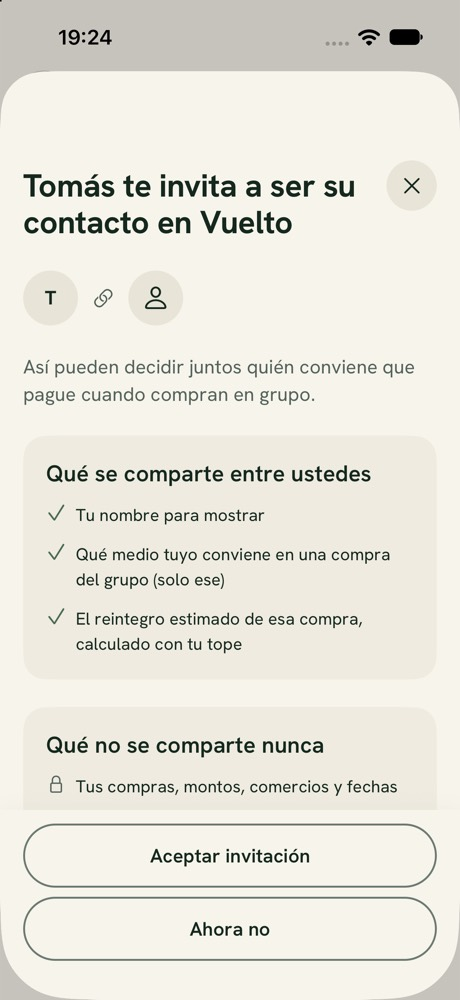
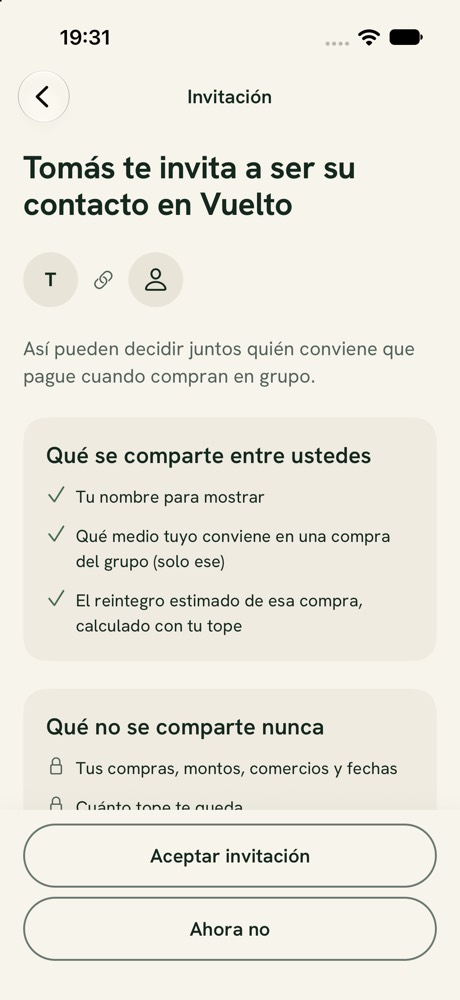
App mobile: ajustes de /code-review (spec), capturas del simulador y bitácora (#39)
- Comercios frecuentes y medios de Revisá tu compra salen de lo elegido en
  el onboarding (FR-002).
- Aceptar invitación es una pantalla apilada con header nativo (FR-004).
- Sin @react-native-segmented-control (los filtros son chips).
- Spec 006 alineada con lo que hace la app y con el contrato real.
- Capturas del iOS Simulator en docs/design/capturas-app/.

diff --git a/apps/mobile/src/data/api.ts b/apps/mobile/src/data/api.ts
@@ -77,12 +77,27 @@ export function getHoy(): string {
   return HOY;
 }
 
+/**
+ * Lo que el usuario eligió en el onboarding (en el servidor vive en su perfil, con RLS).
+ * Lo actualiza `perfil-local.ts`; sin elección, se usan los de ejemplo.
+ */
+let preferencias: { medios: string[]; comercios: string[] } = { medios: [], comercios: [] };
+export function setPreferencias(p: { medios: string[]; comercios: string[] }): void {
+  preferencias = p;
+}
+
+function mediosDelUsuario(): MedioDePago[] {
+  const elegidos = catalogoMedios.filter((m) => preferencias.medios.includes(m.id));
+  return elegidos.length > 0 ? elegidos : mediosDeclarados;
+}
+
+function comerciosDelUsuario(): Comercio[] {
+  const elegidos = catalogoComercios.filter((c) => preferencias.comercios.includes(c.id));
+  return elegidos.length > 0 ? elegidos : catalogoComercios.filter((c) => c.frecuente);
+}
+
 export async function getPerfil(): Promise<Perfil> {
-  return red({
-    nombre: usuario.nombre,
-    medios: mediosDeclarados,
-    comercios: catalogoComercios.filter((c) => c.frecuente),
-  });
+  return red({ nombre: usuario.nombre, medios: mediosDelUsuario(), comercios: comerciosDelUsuario() });
 }
 
 /** Medios del perfil guardado en el servidor (para quien entra con una cuenta existente). */
@@ -95,7 +110,7 @@ export async function getMediosDisponibles(): Promise<MedioDePago[]> {
 }
 
 export async function getComerciosFrecuentes(): Promise<Comercio[]> {
-  return red(catalogoComercios.filter((c) => c.frecuente));
+  return red(comerciosDelUsuario());
 }
 
 export async function getCatalogoComercios(): Promise<Comercio[]> {

diff --git a/apps/mobile/src/app/i/[token].tsx b/apps/mobile/src/app/i/[token].tsx
@@ -6,7 +6,6 @@ import { Button } from "@/components/button";
 import { Card } from "@/components/card";
 import { Icon } from "@/components/icon";
 import { Screen } from "@/components/screen";
-import { SheetHeader } from "@/components/sheet-header";
 import { SkeletonList } from "@/components/skeleton";
 import { Text } from "@/components/text";
 import * as api from "@/data/api";
@@ -64,7 +63,6 @@ export default function AceptarInvitacion() {
 
   return (
     <Screen
-      kind="tab"
       footer={
         d ? (
           valida ? (
@@ -83,7 +81,11 @@ export default function AceptarInvitacion() {
         ) : null
       }
     >
-      <SheetHeader title={valida ? `${quien} te invita a ser su contacto en Vuelto` : " "} onClose={ahoraNo} />
+      {valida ? (
+        <Text variant="titleLg" accessibilityRole="header">
+          {quien} te invita a ser su contacto en Vuelto
+        </Text>
+      ) : null}
       {!d ? (
         <SkeletonList rows={3} height={96} />
       ) : !valida ? (

diff --git a/apps/mobile/src/data/api.test.ts b/apps/mobile/src/data/api.test.ts
@@ -11,6 +11,7 @@ import { reiniciarSesion } from "./sesion";
 beforeEach(() => {
   api.setDemora(0);
   api.setEscenario("normal");
+  api.setPreferencias({ medios: [], comercios: [] });
   reiniciarSesion();
 });
 
@@ -138,6 +139,19 @@ describe("compras y ticket", () => {
     expect(c.reintegro).toBe(4900);
     const { compras } = await api.getCompras("excepcion");
     expect(compras[0]?.id).toBe(c.id);
+  });
+});
+
+describe("perfil del onboarding (FR-002)", () => {
+  it("los comercios frecuentes y los medios salen de lo que eligió el usuario", async () => {
+    api.setPreferencias({ medios: ["bbva-visa-credito"], comercios: ["ypf", "shell"] });
+    const p = await api.getPerfil();
+    expect(p.medios.map((m) => m.nombreCorto)).toEqual(["BBVA"]);
+    expect((await api.getComerciosFrecuentes()).map((c) => c.nombre)).toEqual(["YPF", "Shell"]);
+  });
+
+  it("sin elección, los de ejemplo", async () => {
+    expect((await api.getPerfil()).medios.length).toBe(4);
   });
 });
 

diff --git a/apps/mobile/src/app/_layout.tsx b/apps/mobile/src/app/_layout.tsx
@@ -76,7 +76,7 @@ export default function RootLayout() {
           <Stack.Screen name="revisa" options={pageSheet} />
           <Stack.Screen name="contactos/quitar" options={{ ...sheet, sheetAllowedDetents: "fitToContents" }} />
           <Stack.Screen name="(auth)/login" options={pageSheet} />
-          <Stack.Screen name="i/[token]" options={{ presentation: "modal", headerShown: false }} />
+          <Stack.Screen name="i/[token]" options={{ ...headerNativo, title: "Invitación" }} />
         </Stack>
         <Toast />
       </View>

diff --git a/apps/mobile/src/data/perfil-local.ts b/apps/mobile/src/data/perfil-local.ts
@@ -4,6 +4,7 @@
  */
 import AsyncStorage from "@react-native-async-storage/async-storage";
 import { useSyncExternalStore } from "react";
+import { setPreferencias } from "./api";
 
 export type PerfilLocal = {
   onboardingCompleto: boolean;
@@ -29,6 +30,7 @@ let cargado = false;
 const oyentes = new Set<() => void>();
 
 function emitir() {
+  setPreferencias({ medios: actual.medios, comercios: actual.comercios });
   oyentes.forEach((o) => o());
 }
 

diff --git a/specs/006-app-mobile-pantallas/spec.md b/specs/006-app-mobile-pantallas/spec.md
@@ -51,8 +51,8 @@ Martín está en la fila de Coto un miércoles. Abre la app, toca "Coto" entre s
 2. **Given** la respuesta inline sin monto, **Then** no se muestra ninguna cifra de "Te devuelven"; se muestran el porcentaje y el tope disponible con ≈ y su base.
 3. **Given** la respuesta inline, **When** carga $24.500 en el campo de monto opcional, **Then** aparece "Te devuelven ≈$4.900 · te sale ≈$19.600" con un cruce de opacidad corto, sin contadores animados.
 4. **Given** la respuesta inline, **When** toca "Ver detalle", **Then** llega a "Con qué pagar" de Coto con la misma recomendación, el mismo monto (si lo cargó), y las alternativas descartadas con su motivo ("Provincia Visa débito · hoy no aplica, la promo es los sábados"; "Santander Mastercard · sin promo en supermercados"; "Macro Visa débito · tope agotado").
-5. **Given** "Con qué pagar" con $24.500, **Then** el tope después de la compra se muestra como "≈$1.600 después de esta compra" con estado "Queda poco".
-6. **Given** "Con qué pagar", **Then** hay un único botón primario de una línea ("Usar Galicia") fijo arriba de la tab bar; el contenido termina con espacio igual al footer, y "¿Pagan entre varios?" queda completo y tocable.
+5. **Given** "Con qué pagar" con $24.500, **Then** el tope después de la compra se muestra como "Te quedan ≈$1.600 de tope después de esta compra" con su base. *(Revisado el 27/10: la respuesta real de `recomendar` no trae el estado del tope después de la compra, así que no se muestra "Queda poco" ahí; el estado sí se ve en Topes.)*
+6. **Given** "Con qué pagar", **Then** hay un único botón primario de una línea ("Usar Galicia") en un pie fijo (la pantalla se apila sobre las tabs, sin tab bar: research R2); el contenido termina con espacio igual al footer, y "¿Pagan entre varios?" queda completo y tocable.
 7. **Given** "Con qué pagar", **When** toca "Usar Galicia", **Then** se abre el sheet "Revisá tu compra" en modo recomendación (ver US2 esc. 6).
 
 ---
@@ -92,7 +92,7 @@ Un usuario nuevo ve la bienvenida, declara sus medios de pago, opcionalmente sus
 2. **Given** Medios de pago, **When** no hay ningún medio con cobertura marcado, **Then** "Continuar" está deshabilitado con el motivo visible ("Elegí al menos un medio con promos"); Mercado Pago aparece con la nota "Todavía no tenemos promos de este medio" y sin topes ni reintegros, y marcarlo solo no habilita continuar.
 3. **Given** Comercios, **Then** "Continuar" es el único primario y "Saltar" es una acción de texto en el encabezado; ambos llevan a Primera respuesta (auditoría P2 #18).
 4. **Given** Medios de pago y Comercios, **Then** el indicador de progreso es solo una barra de 2 segmentos (los pasos de configuración), sin texto "Paso N de M" visible; su etiqueta accesible dice "Configuración, paso 1 de 2" (auditoría P2 #18).
-5. **Given** Primera respuesta, **Then** muestra la recomendación de ejemplo para Coto (tarjeta de decisión) con su base; los datos son fijos y no dependen de lo marcado en los pasos anteriores (la app no calcula, FR-012).
+5. **Given** Primera respuesta, **Then** muestra la recomendación de ejemplo para Coto (tarjeta de decisión) y el aviso "Tus topes arrancan sin base": un usuario nuevo no tiene compras, así que no hay cifra de tope (Principio V). Los datos son fijos y no dependen de lo marcado en los pasos anteriores (la app no calcula, FR-012).
 6. **Given** el sheet Guardar perfil, **Then** se ve sobre Primera respuesta; ofrece email sin contraseña y, en iOS, "Continuar con Apple"; en Android solo email. En Expo Go ambos son sustitutos que completan el onboarding.
 7. **Given** el sheet Guardar perfil, **When** toca "Ahora no", **Then** entra a Inicio sin cuenta; Perfil muestra la fila "Guardá tu perfil" que abre el mismo sheet.
 8. **Given** Bienvenida, **When** toca "Ya tengo cuenta", **Then** se abre el sheet Guardar perfil en modo "Entrar" y, al completarlo, va directo a Inicio.
@@ -113,7 +113,7 @@ Martín abre Topes y ve, por medio de pago, cuánto tope le queda estimado y en 
 2. **Given** Provincia sin compras esta semana, **Then** no se muestra cifra: "Sin compras registradas esta semana: todavía no podemos estimar cuánto te queda."
 3. **Given** Topes, **Then** no existe ningún total agregado de topes ("Te quedan ≈$X", "Tope total del mes"); el resumen, sobre superficie Lino, muestra "Te devolvieron ≈$15.200 · según 10 compras de octubre" y "2 medios con tope disponible" (auditoría P1 #2, #4).
 4. **Given** Topes, **Then** el reinicio se muestra por periodo: "Los mensuales se reinician en 18 días" en el resumen, y en Provincia (semanal) "se reinicia el lunes".
-5. **Given** Mis compras, **Then** cada compra lleva su origen (Ticket, Recomendación, Carga manual) en texto ≥12 pt, los filtros son un control segmentado que no corta texto, y todas las fechas son de octubre de 2026.
+5. **Given** Mis compras, **Then** cada compra lleva su origen (Ticket, Recomendación, Carga manual) en texto ≥12 pt, los filtros son chips con scroll horizontal que no cortan texto (una de las dos opciones de la auditoría P2 #16), y todas las fechas son de octubre de 2026.
 
 ---
 
@@ -132,10 +132,10 @@ Martín vincula a Lucía y Mateo por invitación desde Perfil, y en una cena de 
 3. **Given** Aceptar invitación, **When** toca "Ahora no", **Then** vuelve a Inicio sin crear vínculo; **When** toca "Aceptar", **Then** vuelve a Perfil con el contacto en la lista y el aviso "Ahora Lucía es tu contacto".
 4. **Given** una invitación vencida, ya usada, propia o de alguien que ya es contacto, **Then** Aceptar invitación explica el motivo y solo ofrece "Volver".
 5. **Given** el link abierto sin onboarding completo, **Then** primero pasa por el onboarding y al terminar vuelve a Aceptar invitación.
-6. **Given** un contacto en Perfil, **When** toca quitar, **Then** un sheet pide confirmación y dice que el vínculo se rompe para los dos; al confirmar, el contacto desaparece de Perfil y de Armar grupo durante la sesión.
+6. **Given** un contacto en la lista de Contactos (Perfil → Ver todos), **When** toca quitar, **Then** un sheet pide confirmación y dice que el vínculo se rompe para los dos; al confirmar, el contacto desaparece de Perfil y de Armar grupo durante la sesión.
 7. **Given** Perfil sin cuenta, **Then** la sección Contactos dice "Para vincular contactos, guardá tu perfil" con un botón al sheet Guardar perfil, en lugar de "Invitar contacto".
 8. **Given** Armar grupo, **Then** pide nombre del gasto (opcional), monto, y los integrantes: "Vos" fijo, contactos vinculados para marcar, y "Agregar alguien sin cuenta" (solo nombre). El primario "Ver quién conviene que pague" va en un footer fijo encima de la tab bar sin tapar la lista (auditoría P2 #7).
-9. **Given** Gasto en grupo, **Then** la tarjeta de decisión dice "Te conviene que pague Mateo con su Provincia Visa débito · les devuelven ≈$5.000 · según las compras que registró Mateo"; de Lucía "sin reintegro en esta compra · Lucía no tiene compras registradas: sin base"; de Sofía "Sin cuenta: no conocemos su tope"; de Vos, tu medio y "sin promo en gastronomía". Cada uno "pone ≈$9.000". Nunca topes, cantidad de compras ni otros medios de un contacto, ni estados de cobro.
+9. **Given** Gasto en grupo, **Then** la tarjeta de decisión dice "Te conviene que pague Mateo con su Provincia Visa débito · les devuelven ≈$5.000 · según las compras que registró Mateo"; de Lucía "sin reintegro en esta compra · Lucía no tiene compras registradas: sin base"; de Sofía "Sin cuenta: no conocemos su tope"; de Vos, tu medio con su estado ("Tu Provincia Visa débito: 25% los sábados, sin base esta semana"). Cada uno "pone ≈$9.000". Nunca topes, cantidad de compras ni otros medios de un contacto, ni estados de cobro.
 10. **Given** Armar grupo y Gasto en grupo, **Then** la fila propia dice "Vos" con un avatar sin inicial, los contactos usan dos letras cuando la inicial se repite ("Ma", "Mt" no aplica a Vos), y los encabezados están en sentence case (auditoría P2 #10, #11).
 11. **Given** las pantallas de contactos y grupo, **Then** tienen encabezado nativo con volver y gesto de swipe del sistema.
 
@@ -191,7 +191,7 @@ El equipo tiene la app dentro del monorepo, con tema de marca, navegación, clie
 - **FR-009**: Con qué pagar MUST mostrar, en orden: comercio → recomendación → razón → monto opcional → alternativas descartadas con su motivo → "¿Pagan entre varios?" → acción. En 390×844 pt con escala de texto 1,0, la primera alternativa MUST verse sin scroll.
 - **FR-010**: El botón primario de Con qué pagar MUST decir "Usar <banco>" en una sola línea; el reintegro va en la tarjeta, no dentro del botón. Tocarlo abre Revisá tu compra en modo recomendación (US2 esc. 6).
 - **FR-011**: Nueva compra (pestaña Comprar) MUST ofrecer, en este orden: elegir comercio (buscador + frecuentes, que lleva a Con qué pagar), "Escanear ticket", "Cargar a mano" y "Últimas compras" con acceso a Mis compras. El monto, cuando se pide, usa el teclado numérico del sistema sin letras.
-- **FR-012**: La app MUST NOT calcular recomendaciones, reintegros ni topes: toda cifra sale de la capa de datos, que en esta feature devuelve fixtures fijos con la forma de la respuesta del servidor. Cuando el monto refina la cifra, la capa de datos devuelve la cifra ya calculada para ese fixture.
+- **FR-012**: La app MUST NOT calcular recomendaciones, reintegros ni topes: toda cifra sale de la capa de datos, que consume la forma real de la Edge Function `recomendar` (hoy respondida por un mock). Única excepción: "te sale" es la resta `monto − ahorroEstimado`, porque la respuesta del servidor no trae ese campo.
 
 **Registro de compra**
 
@@ -276,6 +276,19 @@ El equipo tiene la app dentro del monorepo, con tema de marca, navegación, clie
 - **Datos de ejemplo**: los de DESIGN.md §9, con dos ajustes de coherencia: el 15/10/2026 es jueves, así que "hoy miércoles" es el 14/10 y los topes mensuales se reinician en 18 días; y "Te devolvieron ≈$15.200" se basa en 10 compras de octubre (9 con reintegro y una sin promo). Santander (≈$2.300 de $8.000, 29%) queda en "Queda poco" con el umbral de FR-022.
 - **Íconos de rubro**: el mismo símbolo para el mismo rubro en toda la app, con su par SF Symbol / Material.
 - **Plataforma de verificación**: iOS Simulator para capturas (claro y texto extra grande); Android se verifica que abra en Expo Go y que se vea claro con el sistema en oscuro.
+
+## Agregados durante la implementación
+
+Estos elementos no estaban en los FR pero vienen del diseño de Stitch o de la verificación, y se
+dejan documentados:
+
+- Perfil: "Cerrar sesión" (estaba en el diseño) y, solo en desarrollo, escenarios de prueba (mes
+  vacío, ticket ilegible) y un link a una invitación de ejemplo para verificar esos estados.
+- Pantalla Contactos (`contactos/index`), detrás del sheet Quitar contacto, como en el diseño.
+- "¿Pagan entre varios?" también en la pestaña Comprar, para llegar al grupo sin pasar por un
+  comercio.
+- Filtros por rubro en Topes ("Por rubro" del diseño).
+- `Contacto.vinculadoDesde`: es un dato del vínculo, no del contacto (ADR-008 §3 no lo prohíbe).
 
 ## Fuera de alcance
 

diff --git a/docs/bitacora-prompts.md b/docs/bitacora-prompts.md
@@ -1161,6 +1161,29 @@ pantallas de Stitch v5 conectadas entre sí, aplicando las correcciones de
   (tarjeta oscura en todas las pantallas, total de topes, fechas de 2024)
   venían del diseño, no de la implementación.
 
+**Continuación (2026-10-27):**
+1. "como hago lo de xcode?": se guió al usuario para aceptar la licencia y
+   seleccionar Xcode (`sudo` no lo puede correr la IA).
+2. Al traer `main` aparecieron la Edge Function `recomendar` (#43) y la spec
+   004 con botón "Simular" y monto obligatorio. El PO decidió mantener la
+   respuesta en un toque y adaptar la capa de datos al contrato real. Se abrió
+   la issue #75 (monto opcional en la Edge Function y alinear la spec 004).
+3. Verificación en el iOS Simulator (iPhone 17, iOS 27), con capturas de las
+   18 pantallas en `docs/design/capturas-app/` y una pasada con el texto más
+   grande de accesibilidad.
+
+**Resultado de la continuación:**
+- El simulador encontró cuatro bugs que la prueba en web no mostraba: el
+  onboarding abría el sheet de cuenta como primera pantalla, el formSheet con
+  detents no pintaba un ScrollView, el aviso de confirmación quedaba debajo del
+  stack nativo y, con el texto más grande, se cortaban palabras al medio.
+  Los cuatro se corrigieron y se volvieron a verificar.
+- `rules-guardian`: sin bloqueantes; 10 hallazgos corregidos (bases en el
+  grupo, rubro inventado, texto del ticket). `/code-review`: sin violaciones
+  duras; se unificaron textos de base y catálogo de rubros, y la spec quedó
+  alineada con lo que hace la app.
+- La spec se renumeró a 006 (002 ya era del motor en `main`).
+
 ---
 
 ## YYYY-MM-DD — Título de la sesión

diff --git a/docs/architecture/03-frontend.md b/docs/architecture/03-frontend.md
@@ -45,7 +45,7 @@ Regla: las pantallas (`src/app/`) componen componentes de `src/components/` con 
 | `contactos/index` | Contactos | Stack, header nativo |
 | `contactos/invitar` | Invitar contacto | Stack, header nativo |
 | `contactos/quitar` | Quitar contacto | Sheet que se ajusta al contenido |
-| `i/[token]` | Aceptar invitación | Modal; deep link `vuelto://i/<token>` (en Expo Go `exp://…/--/i/<token>`) |
+| `i/[token]` | Aceptar invitación | Stack, header nativo; deep link `vuelto://i/<token>` (en Expo Go `exp://…/--/i/<token>`) |
 | `grupo/armar` | Armar grupo | Stack, header nativo |
 | `grupo/resultado` | Gasto en grupo | Stack, header nativo |
 
